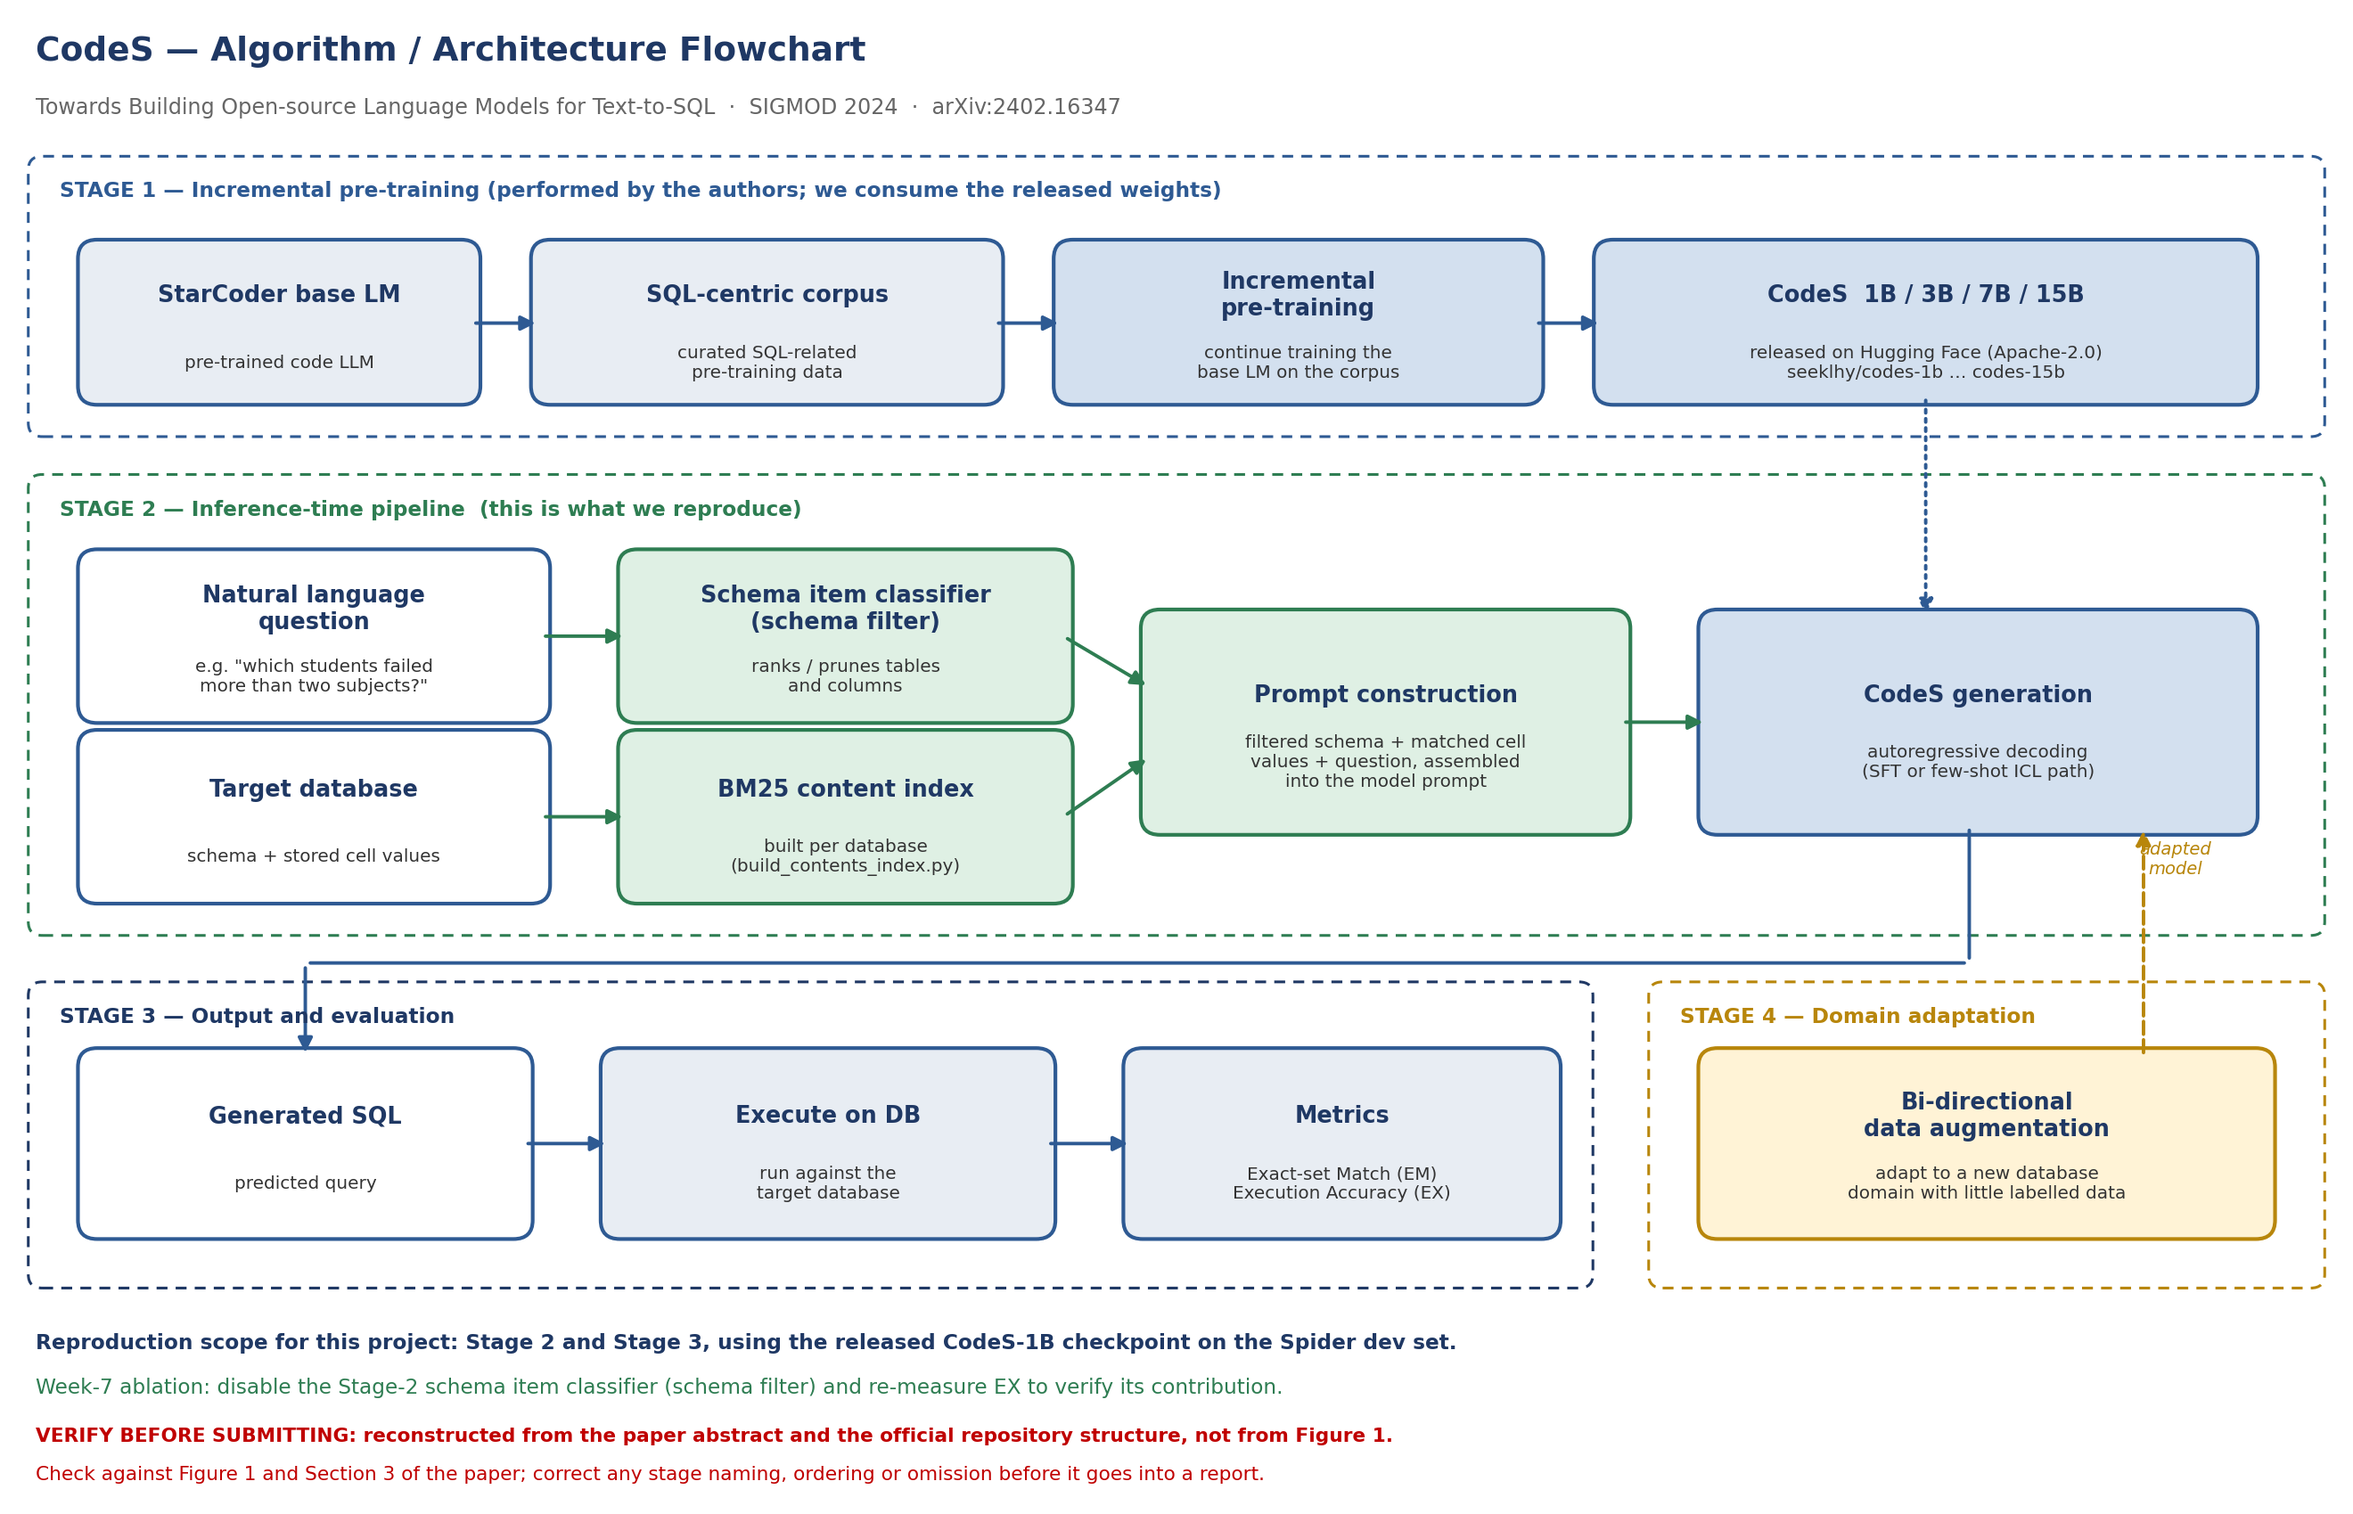
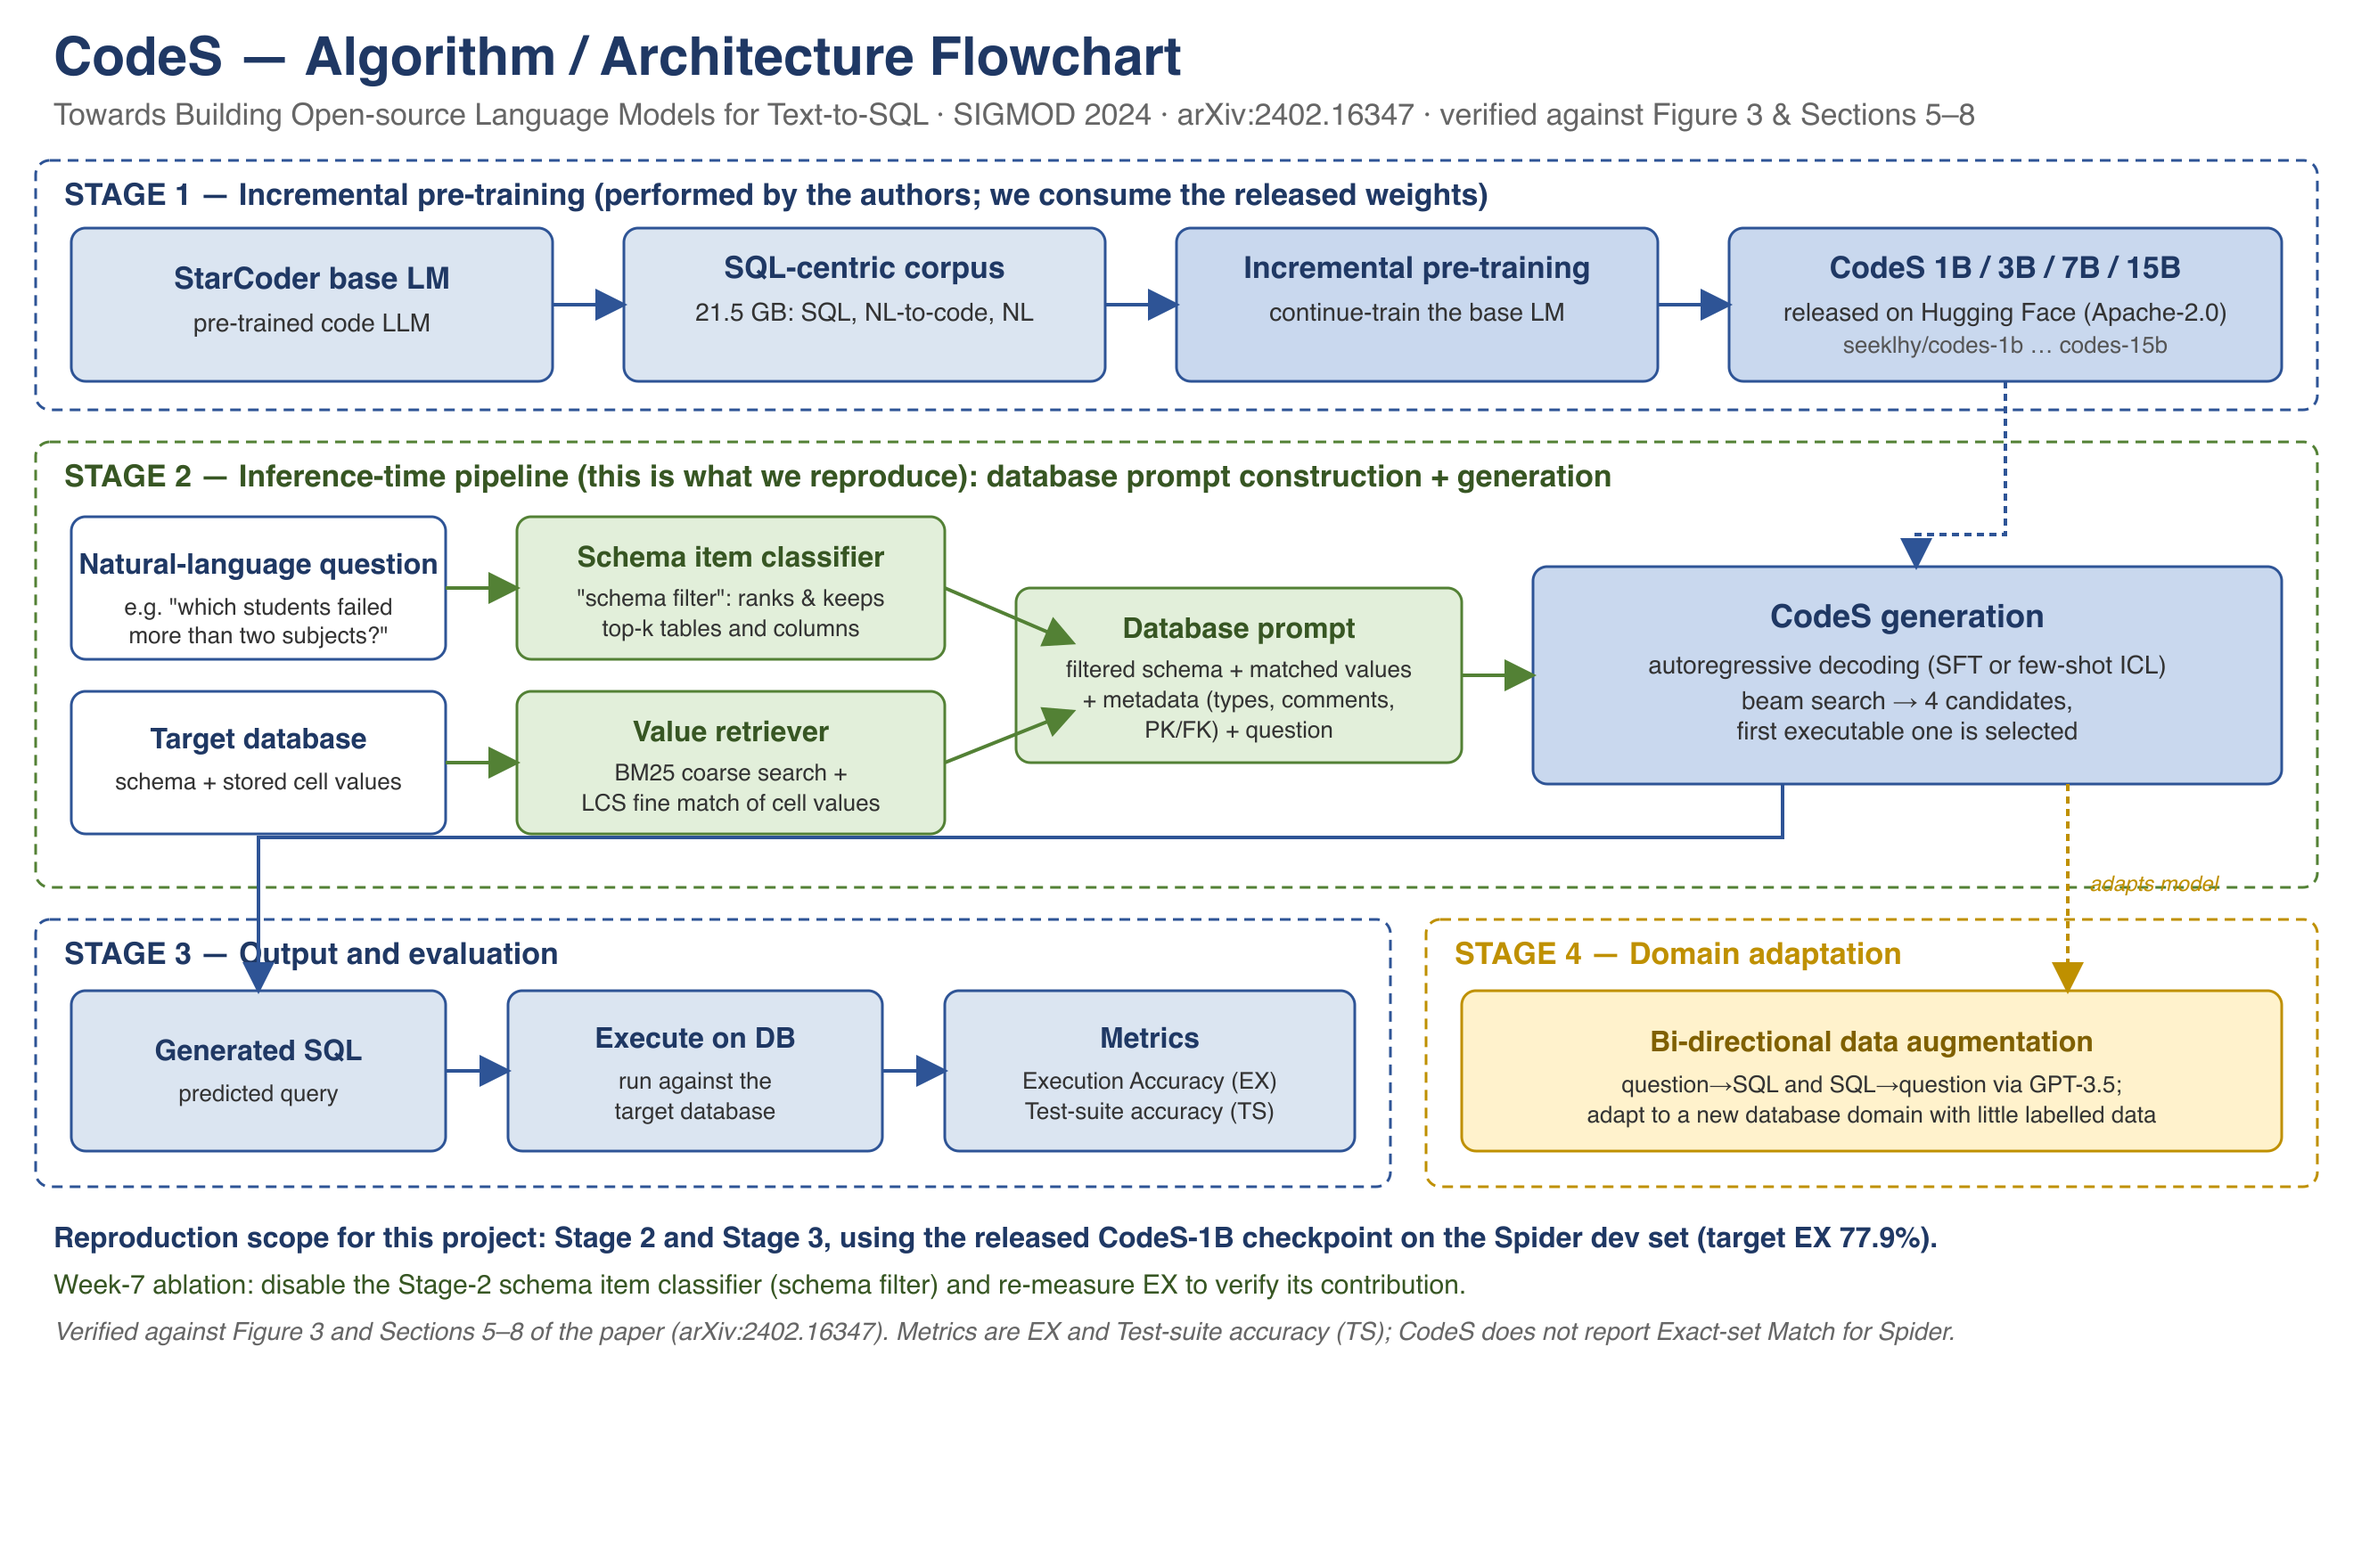
Verify & correct CodeS architecture diagram against Figure 3
- Fix metrics EM -> EX + Test-suite accuracy (TS); CodeS reports EX/TS for Spider
- Value retriever: BM25 coarse + LCS fine match (was BM25 only)
- Database prompt: add metadata (types, comments, PK/FK)
- Generation: note beam search -> 4 candidates, first executable
- Add editable SVG source; render 2640x1760 PNG; update both copies
- Remove stale "verify against Figure 1" note (architecture is Figure 3)

diff --git a/docs/DELIVERABLES.md b/docs/DELIVERABLES.md
@@ -20,7 +20,7 @@ repository, and its status. Update the status column as each item is completed a
 | 2 | Dataset downloaded | `scripts/download_spider.py` → writes `results/dataset_provenance.json` | ✅ run 2026-08-14 (train 7000 / dev 1034; source `xlangai/spider`) |
 | 2 | Weekly report | `docs/weekly-reports/Week 2/Weekly_Report.docx` | 🟡 needs supervisor signature |
 | 3 | Annotated paper (inputs, outputs, equations, hyperparameters) | `docs/weekly-reports/Week 3/Paper_Annotation_Worksheet.docx` | ✅ **filled from the CodeS PDF** — target metric CodeS-1B Spider dev **EX 77.9% / TS 72.2% (Table 5)**; equations, hyperparameters, ablations recorded |
-| 3 | Algorithm / architecture flowchart | `docs/weekly-reports/Week 3/CodeS_Architecture_Flowchart.png` | 🟡 **drafted, verify against Figure 1** |
+| 3 | Algorithm / architecture flowchart | `docs/weekly-reports/Week 3/CodeS_Architecture_Flowchart.png` (source: `docs/codes_architecture_flowchart.svg`) | ✅ **verified against Figure 3** — corrected metrics to EX/TS, added LCS value-match + prompt metadata |
 | 3 | Weekly report | `docs/weekly-reports/Week 3/Weekly_Report.docx` | 🟡 needs supervisor signature |
 | 4 | **Working environment + run log (RED-FLAG GATE)** | `notebooks/01_week4_gate_codes_setup.ipynb` | ✅ **Tier 1 CLEARED 2026-08-14** — codes-1b loaded on Colab T4, generated valid SQL, executed against SQLite (`results/reproduction_log.csv` run T1-001) |
 | 4 | Weekly report | `docs/weekly-reports/Week 4/Weekly_Report.docx` | 🟡 written, needs supervisor signature |
